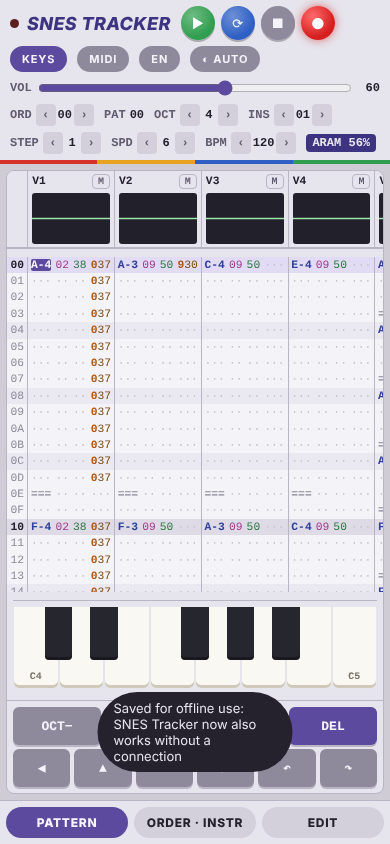
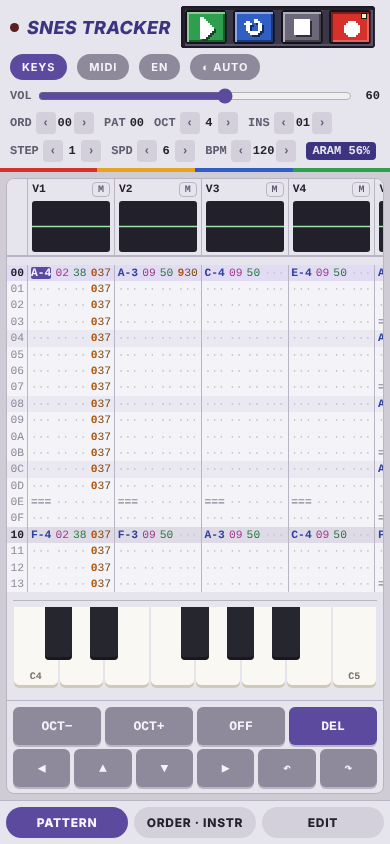
Redesign the transport buttons as blocky 16-bit keys (#14)
* Redesign the transport buttons as Super Famicom pad buttons

The play, loop, stop and record buttons were glossy blobs with Unicode
glyphs that render differently on every platform. They now sit in a
recessed tray like the pad's button well, as matte domed buttons with an
engraved SVG glyph that sink in while held or latched. Play and loop keep
the Y and X colours, stop is grey Select/Start rubber, and record is grey
with a dark lamp when off and the lit red A button when on.

The manual's screenshots are re-rendered by the new
scripts/manual-images.mjs, and the record-mode text matches the new look.

Claude-Session: https://claude.ai/code/session_01Bz4qZk2x3SH7j8hwZAgC6t

* Make the transport keys blocky 16-bit pixel art

Markus found the rounded pad buttons still not SNES enough. The keys are
now rectangular with corners cut by one pixel, hard bevels that flip when
pressed, pixel-art glyphs on a 12x12 grid with a hard drop shadow, and a
square lamp on latched keys, inside a dark console panel. The manual's
screenshots are rendered again.

Claude-Session: https://claude.ai/code/session_01Bz4qZk2x3SH7j8hwZAgC6t

---------

diff --git a/src/style.css b/src/style.css
@@ -93,62 +93,130 @@ button {
   box-shadow: 0 0 6px #ff3b3b;
 }
 
+/* 16-bit look: the transport is a dark console panel with blocky, bevelled keys and pixel-art glyphs.
+   Corners are cut by one "pixel" (2px) instead of rounded; all shadows are hard. */
 .transport {
+  --px: 2px;
   display: flex;
+  align-items: center;
   gap: 6px;
+  padding: 4px;
+  background: #3b3748;
+  box-shadow:
+    inset 0 0 0 var(--px) #1d1a26,
+    inset var(--px) var(--px) 0 var(--px) #25222f,
+    inset calc(-1 * var(--px)) calc(-1 * var(--px)) 0 var(--px) #57526a;
+  clip-path: polygon(
+    var(--px) 0,
+    calc(100% - var(--px)) 0,
+    100% var(--px),
+    100% calc(100% - var(--px)),
+    calc(100% - var(--px)) 100%,
+    var(--px) 100%,
+    0 calc(100% - var(--px)),
+    0 var(--px)
+  );
 }
 
-.round-btn {
-  width: 34px;
+.pad-btn {
+  --px: 2px;
+  --face: #8e8a9c;
+  --glyph: #fff;
+  position: relative;
+  display: grid;
+  place-items: center;
+  width: 42px;
   height: 34px;
-  border-radius: 50%;
+  padding: 0;
   border: 0;
-  background: radial-gradient(circle at 35% 30%, var(--accent-hi), var(--accent) 65%);
-  color: var(--accent-ink);
-  font-size: 13px;
-  box-shadow: 0 2px 0 rgb(0 0 0 / 0.25);
+  border-radius: 0;
+  color: var(--glyph);
+  background: var(--face);
+  /* Outline, then light top-left and dark bottom-right bevel. */
+  box-shadow:
+    inset 0 0 0 var(--px) #15121c,
+    inset calc(2 * var(--px)) calc(2 * var(--px)) 0 0 color-mix(in srgb, var(--face) 55%, #fff),
+    inset calc(-2 * var(--px)) calc(-2 * var(--px)) 0 0 color-mix(in srgb, var(--face) 60%, #000);
+  clip-path: polygon(
+    var(--px) 0,
+    calc(100% - var(--px)) 0,
+    100% var(--px),
+    100% calc(100% - var(--px)),
+    calc(100% - var(--px)) 100%,
+    var(--px) 100%,
+    0 calc(100% - var(--px)),
+    0 var(--px)
+  );
   touch-action: manipulation;
 }
 
-.round-btn.dark {
-  background: var(--pill);
-  color: var(--pill-ink);
+.pad-btn svg {
+  width: 24px;
+  height: 24px;
+  fill: currentColor;
+  /* A hard one-pixel drop shadow, as on 16-bit menu text. */
+  filter: drop-shadow(var(--px) var(--px) 0 color-mix(in srgb, var(--face) 45%, #000));
 }
 
-/* Play and loop in the colours of the pad's Y and X buttons. */
-#play-song {
-  background: radial-gradient(circle at 35% 30%, color-mix(in srgb, var(--btn-y) 70%, white), var(--btn-y) 65%);
-  color: #fff;
+/* Play and loop in the colours of the pad's Y and X buttons, stop in Select/Start grey. */
+.pad-btn.play {
+  --face: var(--btn-y);
 }
 
-#play-pattern {
-  background: radial-gradient(circle at 35% 30%, color-mix(in srgb, var(--btn-x) 70%, white), var(--btn-x) 65%);
-  color: #fff;
+.pad-btn.loop {
+  --face: var(--btn-x);
 }
 
-.round-btn.rec {
-  background: var(--pill);
-  color: var(--pill-ink);
-  font-size: 15px;
+.pad-btn.stop {
+  --face: #6c6879;
 }
 
-.round-btn.rec[aria-pressed='true'] {
-  background: radial-gradient(circle at 35% 30%, #ff6b6b, #d61f1f 65%);
-  color: #fff;
-  box-shadow: 0 0 8px rgb(214 31 31 / 0.6);
+/* Record off: grey key with a dark red lamp. On: the red A button. */
+.pad-btn.rec {
+  --glyph: #8a1f1f;
+}
+
+.pad-btn.rec[aria-pressed='true'] {
+  --face: var(--btn-a);
+  --glyph: #fff;
+}
+
+@media (hover: hover) {
+  .pad-btn:hover {
+    filter: brightness(1.1);
+  }
+}
+
+/* Held or latched: the bevel flips and the glyph moves one pixel down-right. */
+.pad-btn:active,
+.pad-btn[aria-pressed='true'] {
+  box-shadow:
+    inset 0 0 0 var(--px) #15121c,
+    inset calc(2 * var(--px)) calc(2 * var(--px)) 0 0 color-mix(in srgb, var(--face) 60%, #000),
+    inset calc(-1 * var(--px)) calc(-1 * var(--px)) 0 var(--px) color-mix(in srgb, var(--face) 75%, #fff);
+}
+
+.pad-btn:active svg,
+.pad-btn[aria-pressed='true'] svg {
+  transform: translate(var(--px), var(--px));
+  filter: none;
+}
+
+/* Latched keys light a square lamp in the corner. */
+.pad-btn[aria-pressed='true']::after {
+  content: '';
+  position: absolute;
+  top: calc(2 * var(--px));
+  right: calc(2 * var(--px) + 1px);
+  width: 4px;
+  height: 4px;
+  background: #fff6a8;
+  box-shadow: 0 0 0 1px #15121c;
 }
 
 #app[data-rec='off'] .cell .cursor {
   background: var(--pill);
   color: var(--pill-ink) !important;
-}
-
-.round-btn[aria-pressed='true'] {
-  box-shadow: 0 0 0 3px var(--surface), 0 0 0 5px var(--accent);
-}
-
-.round-btn:active {
-  transform: translateY(1px);
 }
 
 .fields {
@@ -1108,9 +1176,20 @@ a.btn {
     font-size: 15px;
   }
 
-  .round-btn {
-    width: 30px;
-    height: 30px;
+  .transport {
+    gap: 4px;
+    padding: 3px;
+  }
+
+  .pad-btn {
+    --px: 1.5px;
+    width: 32px;
+    height: 28px;
+  }
+
+  .pad-btn svg {
+    width: 18px;
+    height: 18px;
   }
 
   .piano {

diff --git a/src/main.ts b/src/main.ts
@@ -227,16 +227,19 @@ const app = document.getElementById('app')!;
 app.dataset.view = 'pattern';
 setLocale(loadStored(LANG_KEY) ?? matchLocale(navigator.languages ?? [navigator.language]));
 document.documentElement.lang = getLocale();
+/** A transport glyph as 12x12 pixel art; SVG so it looks the same on every platform, unlike ▶ ■ ● ⟳. */
+const icon = (path: string) =>
+  `<svg viewBox="0 0 12 12" shape-rendering="crispEdges" aria-hidden="true"><path d="${path}"/></svg>`;
 const stepper = (id: string, label: MessageKey, title: MessageKey) =>
   `<span class="field" data-i18n-title="${title}"><span data-i18n="${label}"></span> <span class="stepper"><button type="button" id="${id}-down" data-step-name="${title}" data-step-dir="down">‹</button><output id="${id}"></output><button type="button" id="${id}-up" data-step-name="${title}" data-step-dir="up">›</button></span></span>`;
 app.innerHTML = `
   <header class="toolbar">
     <div class="brand"><span class="led" id="play-led" data-i18n-title="app.playing"></span><h1>SNES TRACKER<span>S-DSP · SPC700</span></h1></div>
     <div class="transport">
-      <button type="button" class="round-btn" id="play-song" data-i18n-title="transport.playSong" data-i18n-aria-label="transport.playSongLabel">▶</button>
-      <button type="button" class="round-btn" id="play-pattern" data-i18n-title="transport.loopPattern" data-i18n-aria-label="transport.loopPatternLabel">⟳</button>
-      <button type="button" class="round-btn dark" id="stop" data-i18n-title="transport.stop" data-i18n-aria-label="transport.stop">■</button>
-      <button type="button" class="round-btn rec" id="rec" data-i18n-title="transport.rec" data-i18n-aria-label="transport.recLabel">●</button>
+      <button type="button" class="pad-btn play" id="play-song" data-i18n-title="transport.playSong" data-i18n-aria-label="transport.playSongLabel">${icon('M3 1h2v1h1v1h1v1h1v1h1v1h1v2h-1v1h-1v1h-1v1h-1v1h-1v1h-2z')}</button>
+      <button type="button" class="pad-btn loop" id="play-pattern" data-i18n-title="transport.loopPattern" data-i18n-aria-label="transport.loopPatternLabel">${icon('M6 2h2v2H6zM8 3h1v1H8zM8 4h2v4H8zM8 8h1v1H8zM4 8h4v2H4zM3 8h1v1H3zM2 5h2v3H2zM1 4h4v1H1zM2 3h2v1H2z')}</button>
+      <button type="button" class="pad-btn stop" id="stop" data-i18n-title="transport.stop" data-i18n-aria-label="transport.stop">${icon('M2 2h8v8H2z')}</button>
+      <button type="button" class="pad-btn rec" id="rec" data-i18n-title="transport.rec" data-i18n-aria-label="transport.recLabel">${icon('M4 2h4v1h1v1h1v4h-1v1h-1v1H4v-1H3v-1H2V4h1V3h1z')}</button>
     </div>
     <div class="fields">
       ${stepper('ord', 'field.ord', 'field.ordTitle')}

diff --git a/docs/MANUAL.md b/docs/MANUAL.md
@@ -100,9 +100,9 @@ A note without an instrument keeps the one the voice played before.
 
 ### Record mode
 
-The red ● button (or `Esc`) switches record mode. With it **off** the keys and
-the piano only play; with it **on** they also write into the pattern. The
-setting is remembered.
+The ● button (or `Esc`) switches record mode. With it **off** (grey) the keys
+and the piano only play; with it **on** (lit red) they also write into the
+pattern. The setting is remembered.
 
 ### Entering values
 

diff --git a/README.md b/README.md
@@ -95,6 +95,7 @@ paths, so it runs at a domain root and under a sub-path alike.
 | `src/ui/`, `src/main.ts` | pattern editor, piano, scopes, the tracker UI |
 | `src/i18n/` | interface translations |
 | `docs/MANUAL.md` | the manual, rendered into `manual.html` at build time |
+| `docs/images/` | the manual's screenshots; `npm run build && node scripts/manual-images.mjs` renders them again |
 
 ### Analytics
 
